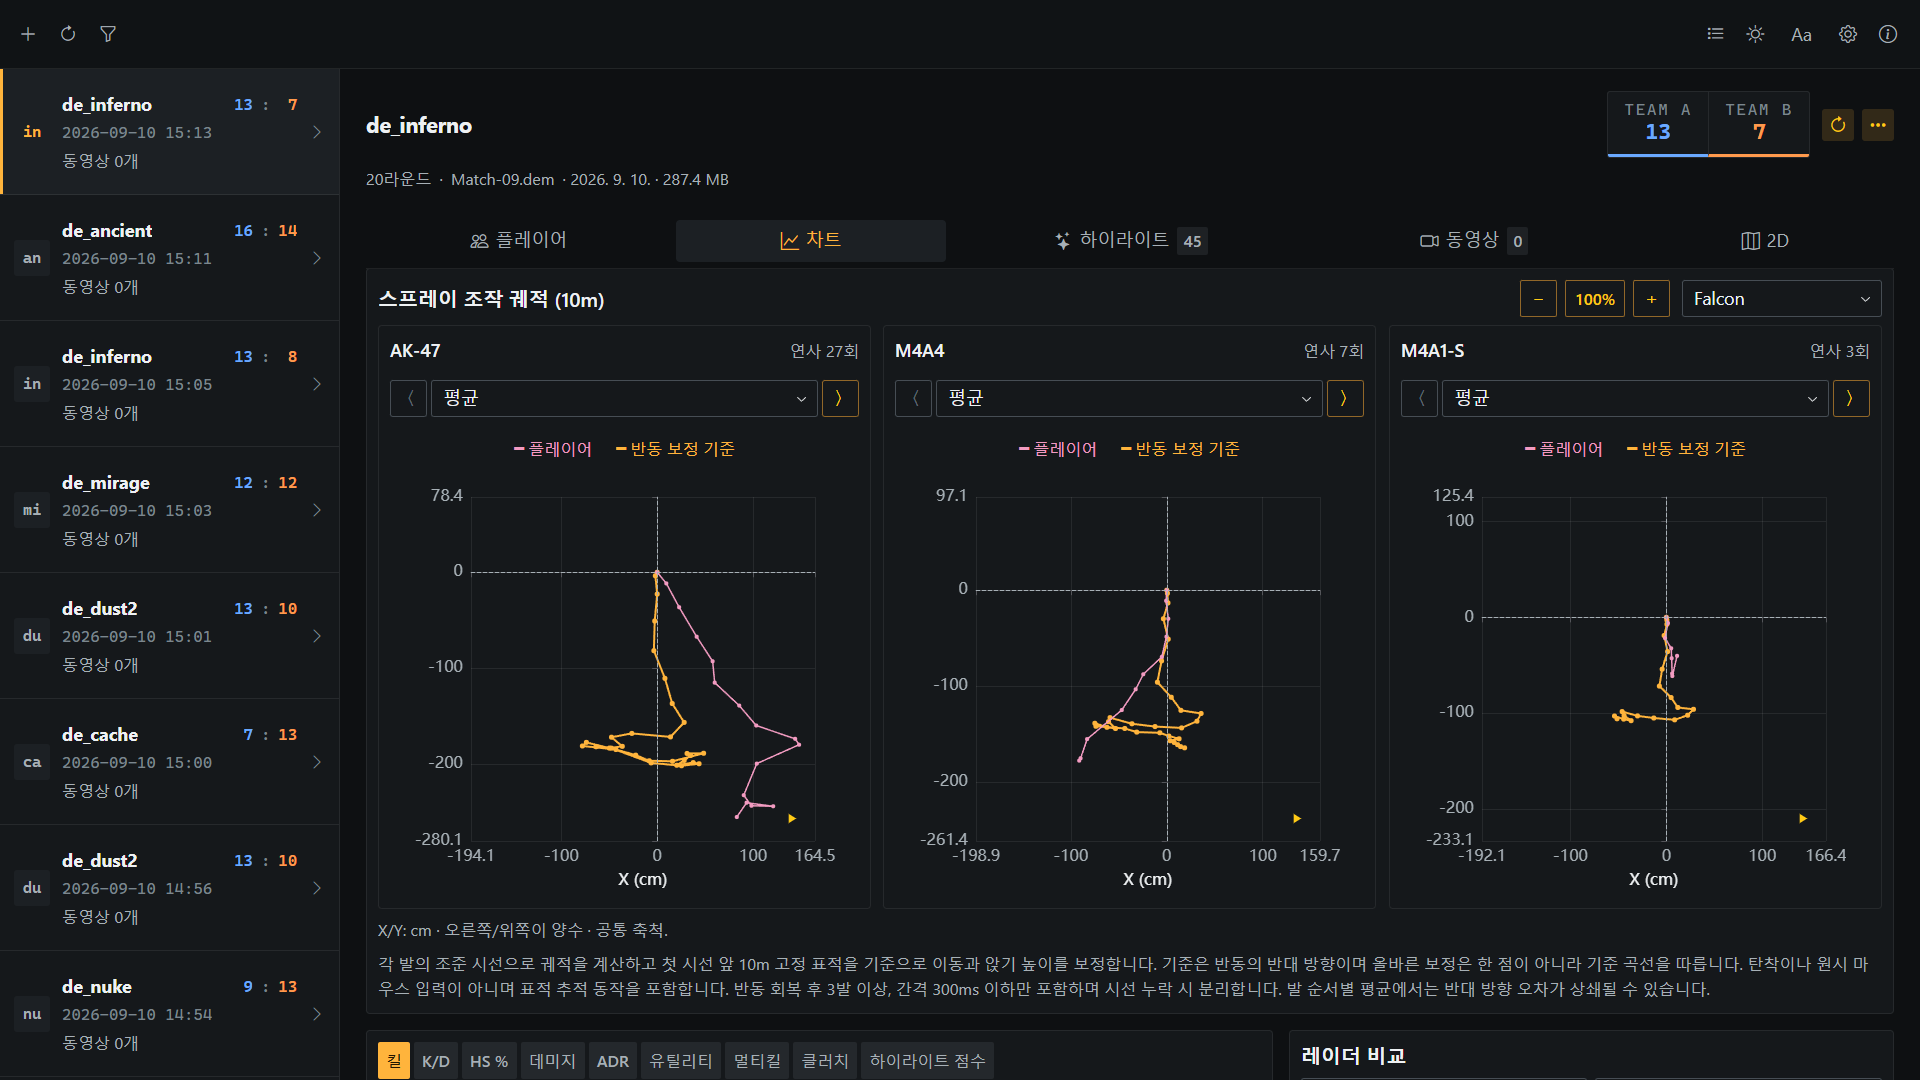
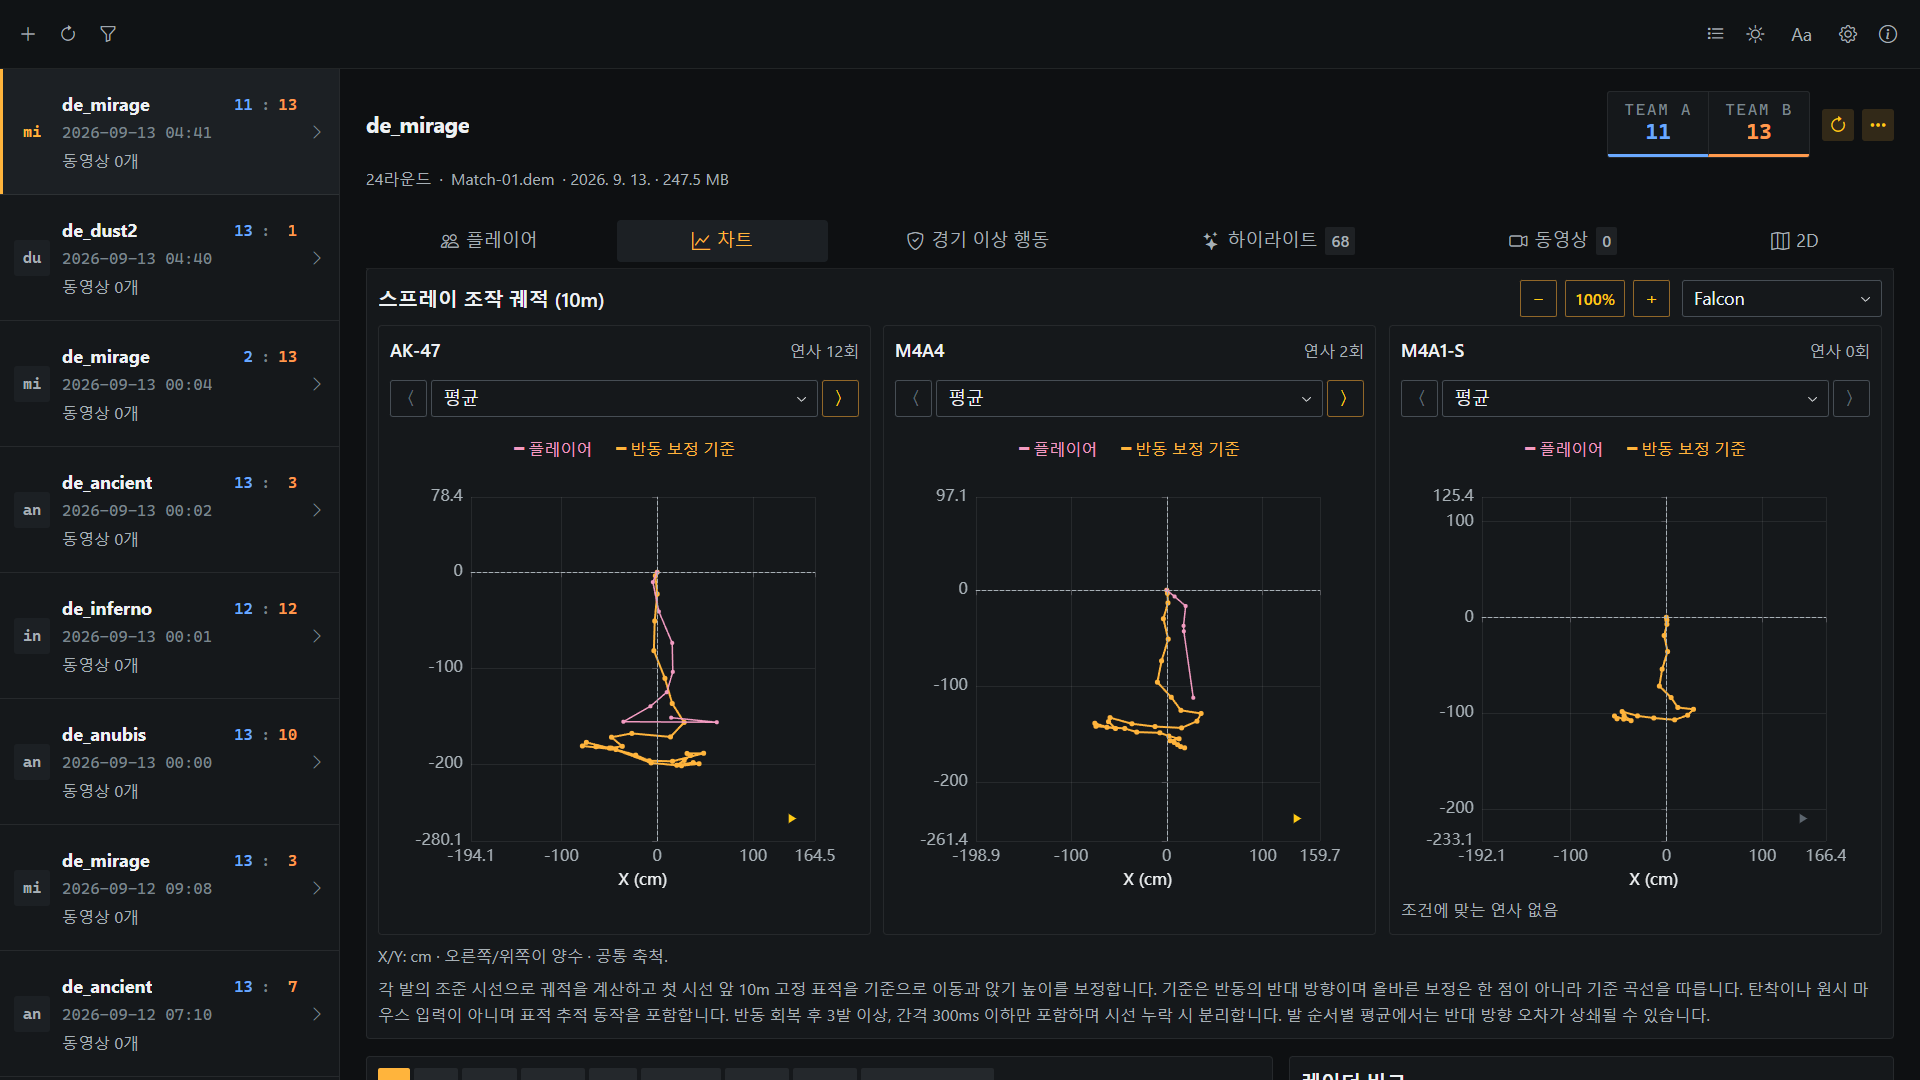
docs: refresh localized screenshots and explain anomaly limits
Show populated match lists and anomaly results in all six languages.
Describe anomaly statistics as experimental reference data that cannot
identify concealed cheating without statistical anomalies.

Update screenshot capture to combine local caches, anonymize players,
and verify that the sidebar is filled and translated actions fit.

diff --git a/scripts/README.md b/scripts/README.md
@@ -25,6 +25,16 @@ module path. Set `UI_SCREENSHOT_DIR` to an existing folder to save screenshots.
 It tests the production build with mocked Tauri IPC; native dialogs, filesystem
 operations and CS2/FFmpeg recording require a separate installed-app check.
 
+## Documentation screenshots
+
+After `npm run build`, run `node scripts/store-screenshots.mjs <data-directory>/parsed [more-parsed-directories...]`
+with `PLAYWRIGHT_MODULE` set when necessary. The source needs a completed anomaly
+analysis in the sibling `behavior-analysis` directory and enough matches to fill
+the sidebar. Additional source directories are deduplicated by demo path. The script reads caches,
+anonymizes players, and writes five screenshots per language plus a theme comparison
+to ignored `out/store-screenshots/`. Copy only the selected README images into
+`docs/images/<language>/`; keep source caches and diagnostics local.
+
 ## Private test data
 
 Keep real demos, parser exports, screenshots and comparison reports in ignored

diff --git a/README.ru.md b/README.ru.md
@@ -12,6 +12,12 @@
 
 ![Траектории отдачи AK-47, M4A4 и M4A1-S](docs/images/ru/03-combat-analysis.png)
 
+### Аномальные данные (экспериментальная функция)
+
+Анализируйте всех игроков вручную и экспортируйте клипы действий. Функция экспериментальная, статистика — только для справки. Она не выявляет намеренно скрытые читы без статистических аномалий; отсутствие аномалий не означает отсутствие читов.
+
+![Аномальные данные (экспериментальная функция)](docs/images/ru/05-anomaly-data.png)
+
 ### Видео с хайлайтами
 
 - Хайлайты (мультикиллы, клатчи, ниндзя-дефьюзы) находятся и оцениваются автоматически

diff --git a/README.ja.md b/README.ja.md
@@ -12,6 +12,12 @@ Counter-Strike 2 のデモ向け Windows デスクトップツール（ポータ
 
 ![AK-47、M4A4、M4A1-S のリコイル軌跡](docs/images/ja/03-combat-analysis.png)
 
+### 異常データ（実験的機能）
+
+全プレイヤーを手動で分析し、行動クリップを書き出せます。実験的機能のため、統計は参考情報です。意図的に隠され、統計に異常が現れないチートは識別できません。異常がなくても、チートがないとは限りません。
+
+![異常データ（実験的機能）](docs/images/ja/05-anomaly-data.png)
+
 ### ハイライト動画
 
 - ハイライト（マルチキル、クラッチ、ニンジャディフューズ）を自動で検出してスコア付け

diff --git a/README.ko.md b/README.ko.md
@@ -12,6 +12,12 @@ Counter-Strike 2 데모용 Windows 데스크톱 도구 (포터블 단일 `.exe`)
 
 ![AK-47, M4A4, M4A1-S의 반동 궤적](docs/images/ko/03-combat-analysis.png)
 
+### 이상 데이터 (실험적 기능)
+
+전체 플레이어를 수동으로 분석하고 행동 클립을 내보냅니다. 실험적 기능으로, 통계는 참고용입니다. 의도적으로 숨겨 통계상 이상이 없는 치트는 식별할 수 없으며, 이상이 없다고 치트가 없다는 뜻은 아닙니다.
+
+![이상 데이터 (실험적 기능)](docs/images/ko/05-anomaly-data.png)
+
 ### 하이라이트 영상
 
 - 하이라이트 (멀티킬, 클러치, 닌자 디퓨즈) 를 자동으로 찾아 점수를 매김

diff --git a/README.md b/README.md
@@ -19,6 +19,12 @@ Review match results and player performance across combat, utility and round sit
 
 ![Recoil trajectories for AK-47, M4A4, and M4A1-S](docs/images/en/03-combat-analysis.png)
 
+### Anomaly data (experimental)
+
+Manually analyze all players and export behavior clips. This experimental feature is for reference only. It cannot identify cheats deliberately concealed without statistical anomalies; no anomalies does not mean no cheating.
+
+![Anomaly data (experimental)](docs/images/en/05-anomaly-data.png)
+
 ### Highlight videos
 
 - Highlights (multi-kills, clutches, ninja defuses) are detected and scored automatically

diff --git a/README.zh-CN.md b/README.zh-CN.md
@@ -12,6 +12,12 @@ Counter-Strike 2 demo 的 Windows 桌面工具（单个便携 `.exe`）：从一
 
 ![AK-47、M4A4 与 M4A1-S 的压枪轨迹](docs/images/zh-CN/03-combat-analysis.png)
 
+### 异常数据（实验性）
+
+手动分析全场玩家并导出行为片段。此功能仍属实验性，数据仅供参考，无法识别刻意隐藏、未呈现异常的外挂；无异常不代表无作弊。
+
+![异常数据（实验性）](docs/images/zh-CN/05-anomaly-data.png)
+
 ### 集锦视频
 
 - 自动检测并评分集锦片段（多杀、残局、ninja defuse）

diff --git a/README.zh-TW.md b/README.zh-TW.md
@@ -12,6 +12,12 @@ Counter-Strike 2 demo 的 Windows 桌面工具（單一可攜 `.exe`）：從一
 
 ![AK-47、M4A4 與 M4A1-S 的壓槍軌跡](docs/images/zh-TW/03-combat-analysis.png)
 
+### 異常數據（實驗性）
+
+手動分析全場玩家並輸出行為片段。此功能仍屬實驗性，數據僅供參考，無法識別刻意隱藏、未呈現異常的外掛；無異常不代表無作弊。
+
+![異常數據（實驗性）](docs/images/zh-TW/05-anomaly-data.png)
+
 ### 高光影片
 
 - 自動偵測並評分高光片段（多殺、clutch、ninja defuse）
